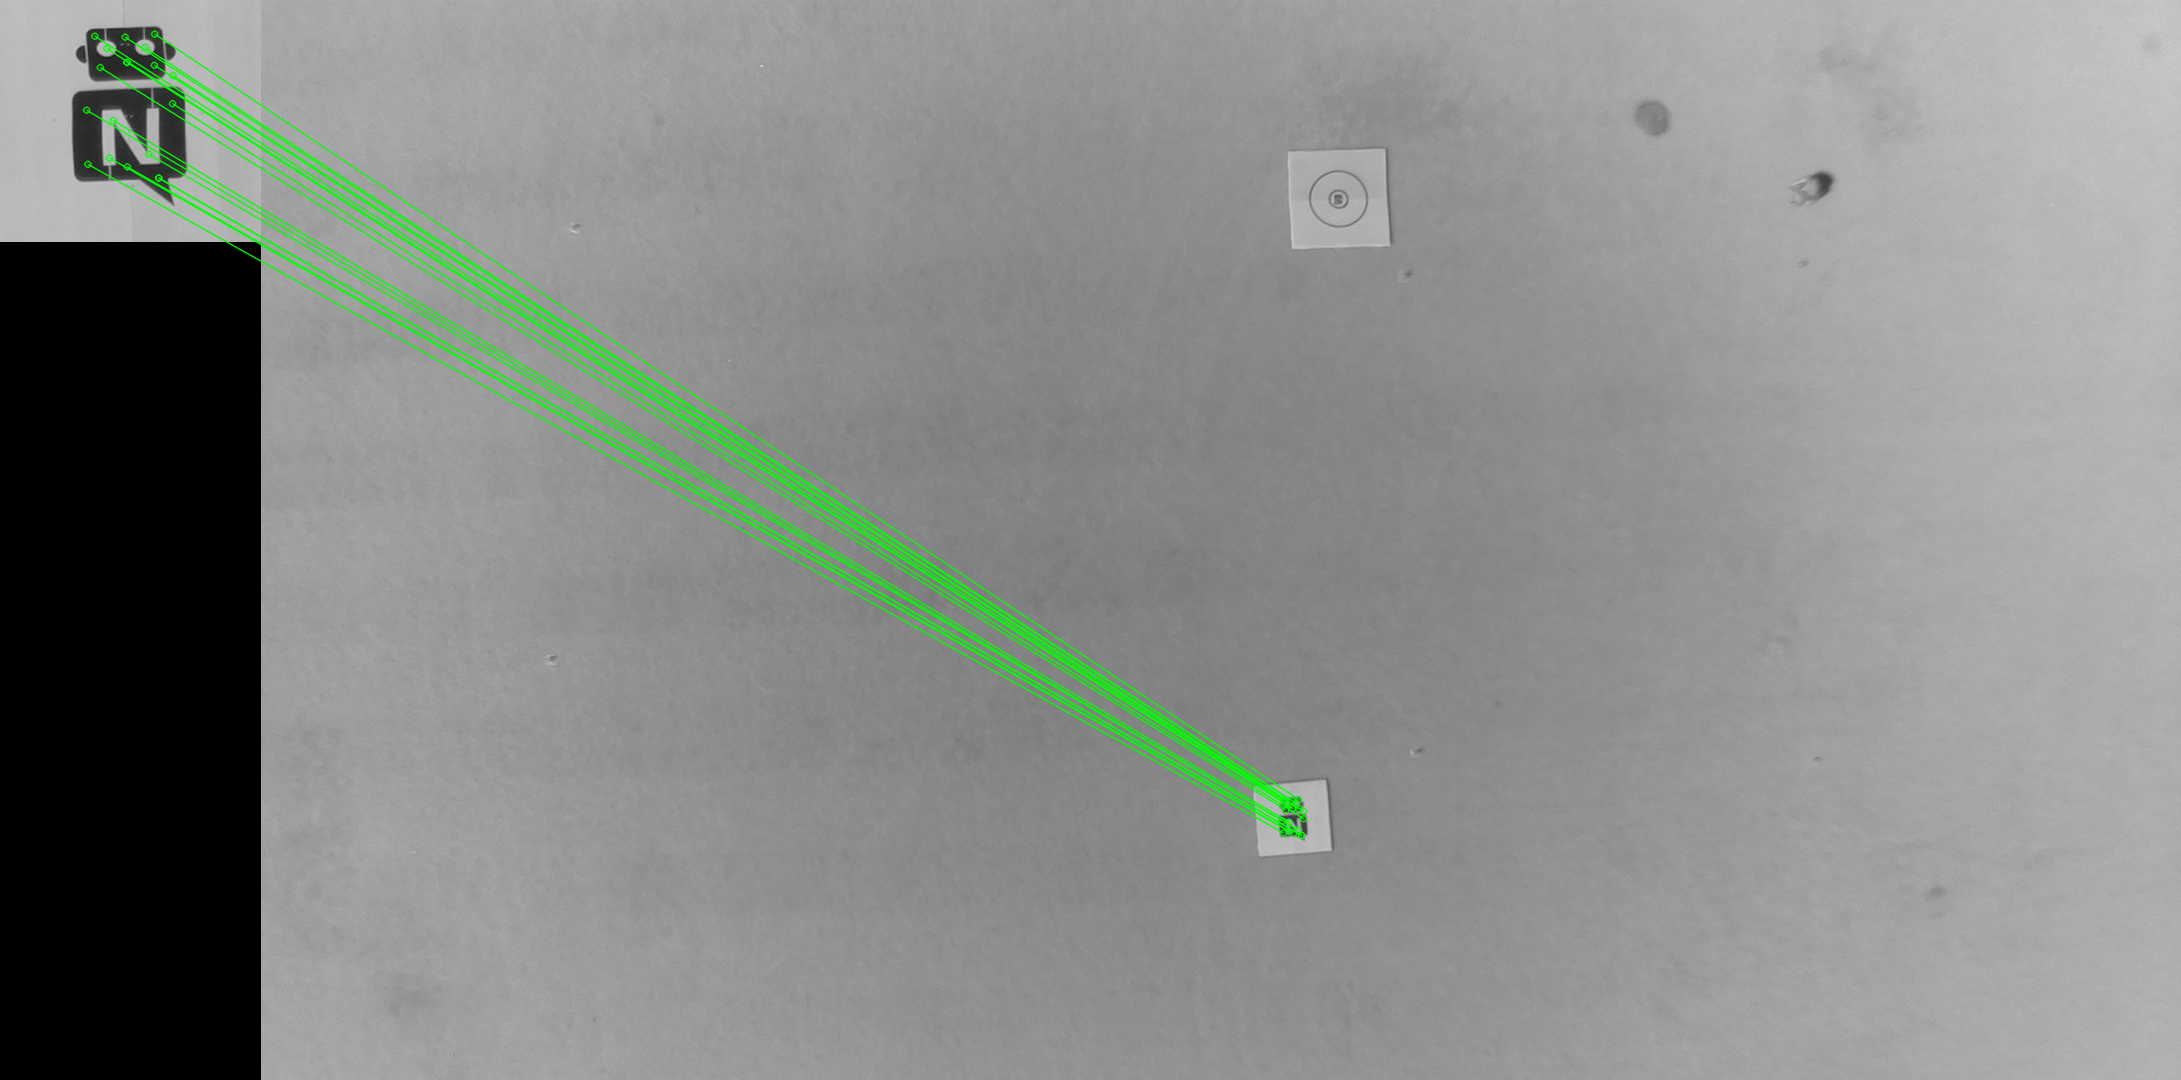
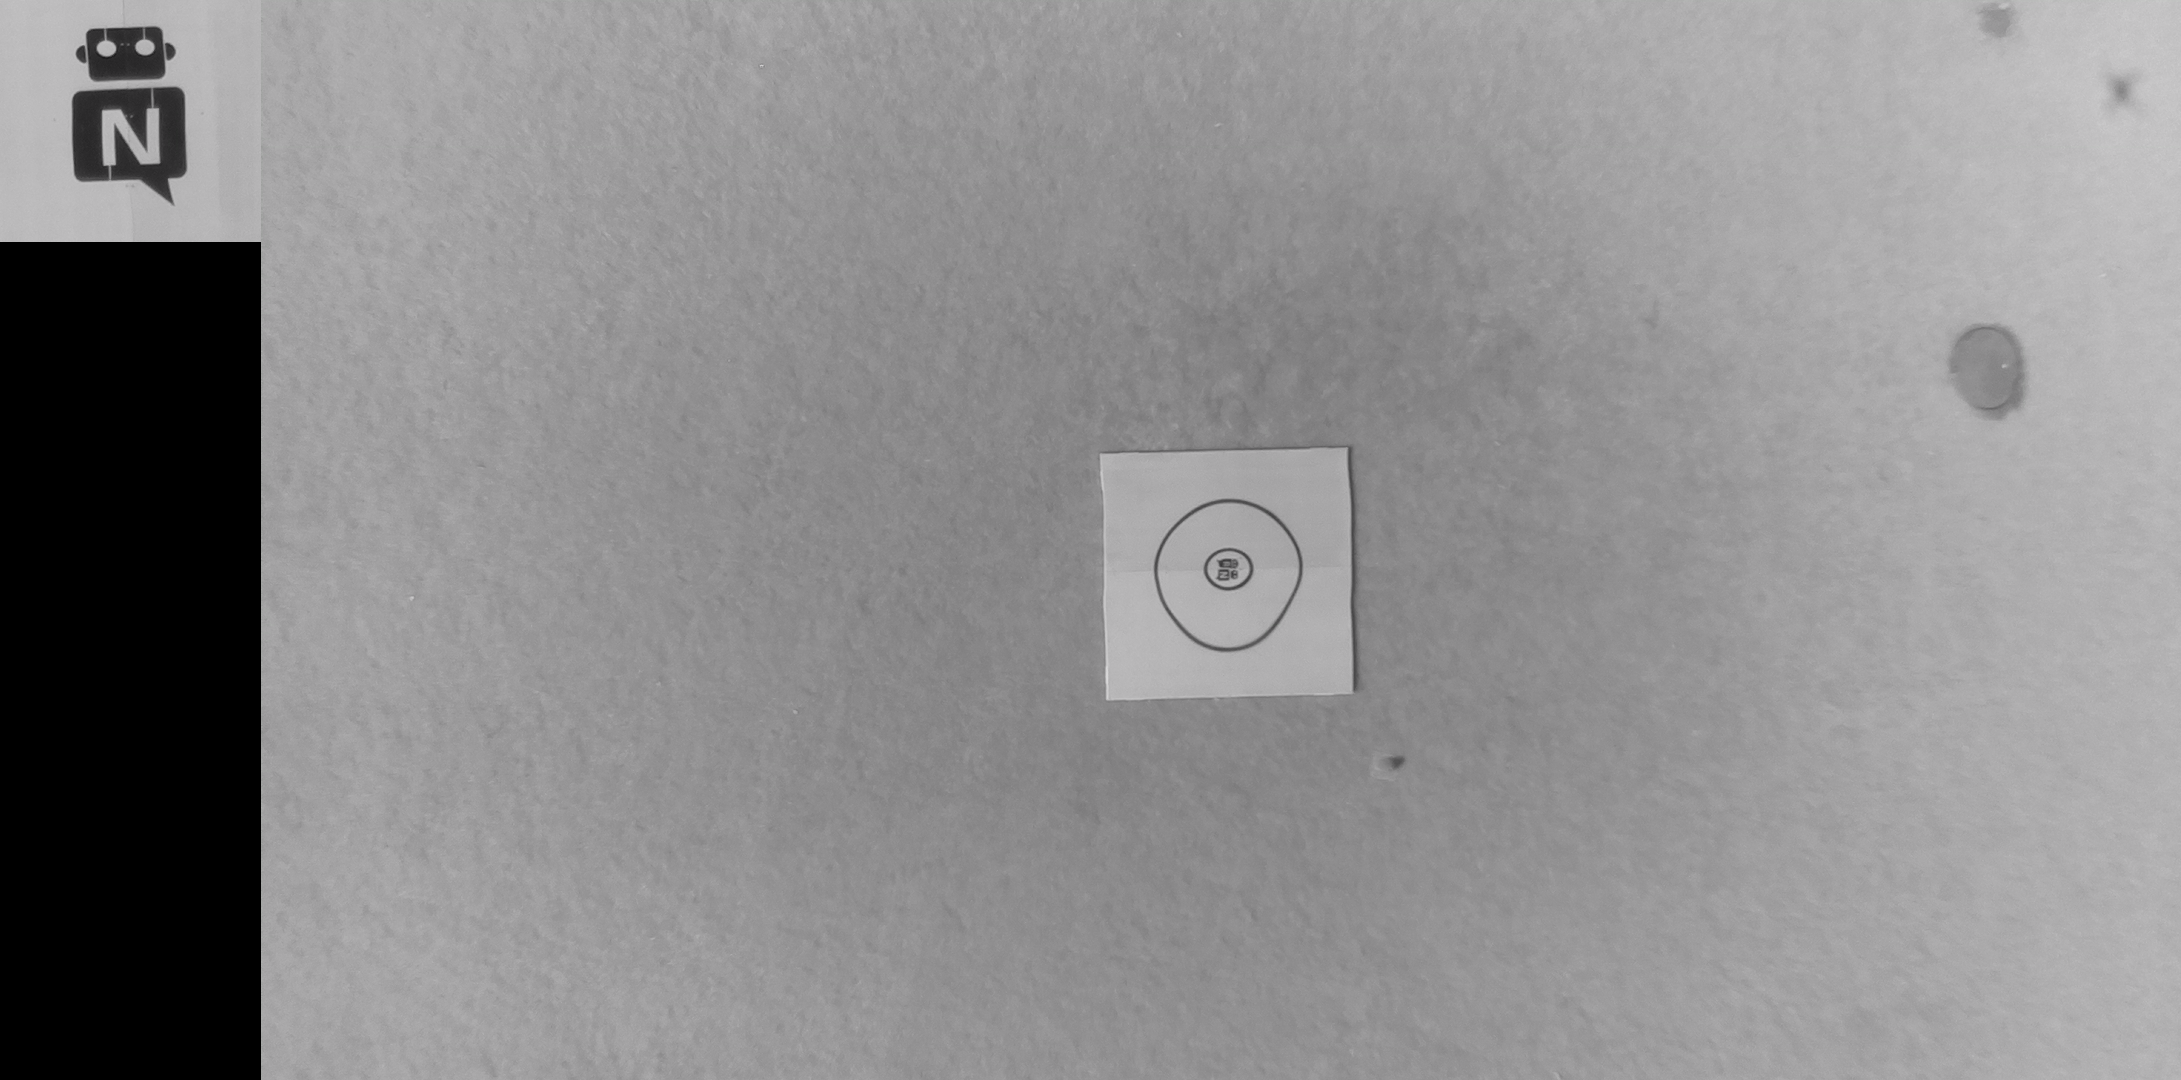
feat(ignore poor targets)

diff --git a/sift/sift.py b/sift/sift.py
@@ -26,8 +26,6 @@ class SIFT(object):
         
         flann = cv2.FlannBasedMatcher(index_params, search_params)
         matches = flann.knnMatch(self.des_q, des_t, k=2)
-        print(matches[0])
-
         # store all the good matches as per Lowe's ratio test.
         temp = list(filter(lambda m: m[0].distance < 0.7*m[1].distance, matches))
         if len(temp) == 0:
@@ -37,10 +35,12 @@ class SIFT(object):
         src_pts = np.float32([ self.kp_q[m.queryIdx].pt for m in good ]).reshape(-1,1,2)
         dst_pts = np.float32([ kp_t[m.trainIdx].pt for m in good ]).reshape(-1,1,2)
 
-        M, mask = cv2.findHomography(src_pts, dst_pts, cv2.RANSAC, 5.0)
-        matchesMask = mask.ravel() # only inliers
+        if len(dst_pts) > 4:
+            M, mask = cv2.findHomography(src_pts, dst_pts, cv2.RANSAC, 5.0)
+            matchesMask = mask.ravel() # only inliers
         
-        return kp_t, good[np.where(matchesMask == 1)]
+            return kp_t, good[np.where(matchesMask == 1)]
+        return None, None
     
 
     def get_keypoints(self, kp_t, good, max_pts=10):
@@ -67,15 +67,19 @@ if __name__ == '__main__':
     sift = SIFT()
     
     img_query = cv2.imread("letters/roboN/n0.png")  # imagen del dataset recortada
-    img_train = cv2.imread("letters/course/c0.png")  # imagen a consultar
+    img_train = cv2.imread("letters/landing/landing3.png")  # imagen a consultar
     #img_train = cv2.imread("letters/roboR/r1.png")
 
     sift.set_query_img(img_query)
+    kp_t = None
+    good = None
 
     kp_t, good = sift.get_sift_matches(img_train)
-    if kp_t and good:
-        print("Found match!")
+    if kp_t is not None and good is not None:
         key_pts = sift.get_keypoints(kp_t, good)
+        if len(key_pts) > 0:
+            print("Found match!")
+            print(key_pts)
         
         img_train_with_kp = img_train.copy()
         sift.draw_keypoints(img_train_with_kp, key_pts)

diff --git a/SAR_main.py b/SAR_main.py
@@ -48,10 +48,12 @@ class SarControl():
         self.camera_thread = Thread(target=self.camera)
     
     def query_sift(self, query_img: cv2.Mat, letter: str) -> np.ndarray:
+        kp_t = None
+        good = None
         if letter == 'r':
             self.sift.set_query_img(self.sift.robo_r)
             kp_t, good = self.sift.get_sift_matches(query_img)
-            if kp_t and good:
+            if kp_t is not None and good is not None:
                 key_pts = self.sift.get_keypoints(kp_t, good)
                 return key_pts
             else:
@@ -59,7 +61,7 @@ class SarControl():
         elif letter == 'n':
             self.sift.set_query_img(self.sift.robo_n)
             kp_t, good = self.sift.get_sift_matches(query_img)
-            if kp_t and good:
+            if kp_t is not None and good is not None:
                 key_pts = self.sift.get_keypoints(kp_t, good)
                 return key_pts
             else:
@@ -146,6 +148,7 @@ class SarControl():
                 positions['n'].append((None, None))
         averages = {'n': None, 'r': None}
         for key in positions.keys():
+            # TODO: remove outliars?
             lat = 0
             lon = 0
             for elem in positions[key]:
